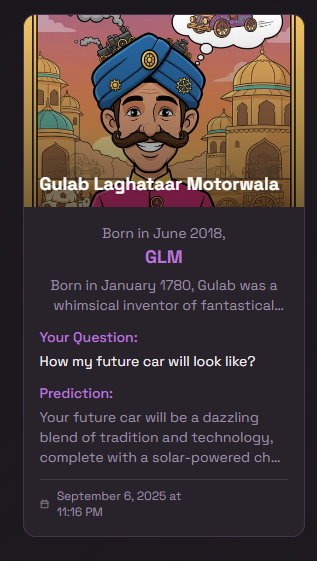
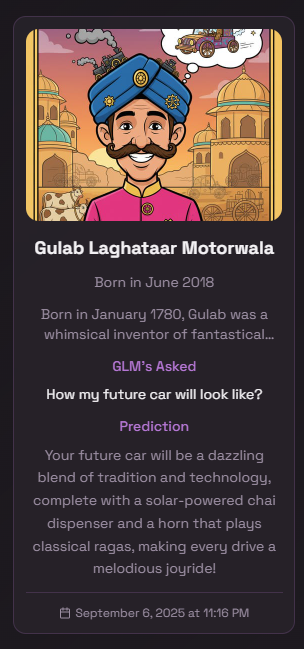
pwa capaboility with good loadinng performance.

diff --git a/src/components/prediction-result.tsx b/src/components/prediction-result.tsx
@@ -190,16 +190,16 @@ export function PredictionResult({ result, name, question }: PredictionResultPro
         <div ref={resultCardRef} className="p-4 bg-transparent">
           <Card className="overflow-hidden rounded-2xl border-2 border-primary/20 shadow-lg">
             <CardContent className="p-0">
-              <div className="bg-card p-6 text-center">
-                  <div className="flex justify-center items-center mb-4">
+              <div className="bg-card p-4 md:p-6 text-center">
+                  <div className="flex justify-center items-center mb-2 md:mb-4">
                       <Gift className="w-8 h-8 text-primary" />
                   </div>
                   <h2 className="text-2xl font-bold">A Birthday Match for {name}!</h2>
                   <p className="text-muted-foreground">You share a birthday with...</p>
               </div>
               
-              <div className="p-6 bg-muted/30">
-                  <div className="w-full aspect-square bg-muted rounded-lg mb-4 flex items-center justify-center overflow-hidden border">
+              <div className="group p-4 md:p-6 bg-muted/30 transition-all duration-300 hover:pb-8">
+                  <div className="w-full aspect-square bg-muted rounded-lg mb-2 md:mb-4 flex items-center justify-center overflow-hidden border">
                       <Image
                           src={result.characterImage}
                           alt={`Image of ${result.characterName}`}
@@ -209,21 +209,24 @@ export function PredictionResult({ result, name, question }: PredictionResultPro
                           data-ai-hint="character portrait"
                       />
                   </div>
-                  <h3 className="text-xl font-semibold text-center">{result.characterName}</h3>
-                  <p className="text-muted-foreground italic mt-2 text-center">{result.characterDescription}</p>
+                  {/* Character details - hidden on desktop normal state, visible on hover */}
+                  <div className="md:opacity-0 md:max-h-0 md:overflow-hidden md:group-hover:opacity-100 md:group-hover:max-h-32 transition-all duration-300">
+                      <h3 className="text-xl font-semibold text-center">{result.characterName}</h3>
+                      <p className="text-muted-foreground italic mt-2 text-center">{result.characterDescription}</p>
+                  </div>
               </div>
               
-              <div className="bg-card p-6 text-center">
+              <div className="bg-card p-4 md:p-6 text-center">
                   <h3 className="text-xl font-bold">Question</h3>
-                  <p className="text-foreground/90 mt-2 line-clamp-2">
+                  <p className="text-foreground/90 mt-1 md:mt-2 line-clamp-2">
                     {question}
                   </p>
-                  <div className="my-4 h-px w-20 bg-primary/20 mx-auto" />
+                  <div className="my-2 md:my-4 h-px w-20 bg-primary/20 mx-auto" />
                   <h3 className="text-2xl font-bold text-primary">Your Cosmic Prediction</h3>
-                  <p className="text-foreground/90 mt-4">
+                  <p className="text-foreground/90 mt-2 md:mt-4">
                       {result.prediction}
                   </p>
-                  <p className="text-xs text-primary mt-4 text-center">
+                  <p className="text-xs text-primary mt-2 md:mt-4 text-center">
                     cosmicQuirks.in
                   </p>
               </div>

diff --git a/public/sw.js b/public/sw.js
@@ -1,0 +1,93 @@
+const CACHE_NAME = 'cosmic-quirks-v1';
+const STATIC_ASSETS = [
+  '/',
+  '/manifest.json',
+  '/icon-192x192.png',
+  '/icon-512x512.png',
+  '/apple-touch-icon.png'
+];
+
+// Install event - cache static assets
+self.addEventListener('install', (event) => {
+  event.waitUntil(
+    caches.open(CACHE_NAME)
+      .then((cache) => cache.addAll(STATIC_ASSETS))
+      .then(() => self.skipWaiting())
+  );
+});
+
+// Activate event - clean up old caches
+self.addEventListener('activate', (event) => {
+  event.waitUntil(
+    caches.keys()
+      .then((cacheNames) => {
+        return Promise.all(
+          cacheNames.map((cacheName) => {
+            if (cacheName !== CACHE_NAME) {
+              return caches.delete(cacheName);
+            }
+          })
+        );
+      })
+      .then(() => self.clients.claim())
+  );
+});
+
+// Fetch event - serve from cache when offline
+self.addEventListener('fetch', (event) => {
+  // Only handle same-origin requests
+  if (event.request.url.startsWith(self.location.origin)) {
+    event.respondWith(
+      caches.match(event.request)
+        .then((response) => {
+          // Return cached version or fetch from network
+          if (response) {
+            return response;
+          }
+          
+          return fetch(event.request)
+            .then((response) => {
+              // Don't cache if not a valid response
+              if (!response || response.status !== 200 || response.type !== 'basic') {
+                return response;
+              }
+
+              // Cache successful responses for static assets
+              if (event.request.method === 'GET' && 
+                  (event.request.url.includes('/static/') || 
+                   event.request.url.includes('/_next/static/'))) {
+                const responseToCache = response.clone();
+                caches.open(CACHE_NAME)
+                  .then((cache) => {
+                    cache.put(event.request, responseToCache);
+                  });
+              }
+
+              return response;
+            })
+            .catch(() => {
+              // If network fails, try to serve the main page for navigation requests
+              if (event.request.mode === 'navigate') {
+                return caches.match('/');
+              }
+              throw error;
+            });
+        })
+    );
+  }
+});
+
+// Handle background sync for offline form submissions (future enhancement)
+self.addEventListener('sync', (event) => {
+  if (event.tag === 'prediction-sync') {
+    event.waitUntil(
+      // Handle offline prediction submissions
+      handleOfflinePredictions()
+    );
+  }
+});
+
+async function handleOfflinePredictions() {
+  // Future: Handle queued predictions when back online
+  console.log('Handling offline predictions...');
+}

diff --git a/src/app/page.tsx b/src/app/page.tsx
@@ -78,20 +78,41 @@ export default function Home() {
     setUserName(data.name);
     setUserQuestion(data.question);
     
-    const response = await getPrediction(data);
+    try {
+      // Add timeout to prevent infinite loading
+      const timeoutPromise = new Promise<never>((_, reject) => {
+        setTimeout(() => reject(new Error('Request timeout')), 60000); // 60 seconds timeout
+      });
+      
+      const response = await Promise.race([
+        getPrediction(data),
+        timeoutPromise
+      ]);
 
-    if (response.error) {
+      if (response.error) {
+        toast({
+          variant: 'destructive',
+          title: 'The cosmos are fuzzy right now.',
+          description: response.error,
+        });
+      } else if (response.data) {
+        setResult(response.data);
+        setShowConfetti(true);
+        setTimeout(() => setShowConfetti(false), 8000);
+      }
+    } catch (error) {
+      console.error('Prediction error:', error);
       toast({
         variant: 'destructive',
         title: 'The cosmos are fuzzy right now.',
-        description: response.error,
+        description: error instanceof Error && error.message === 'Request timeout' 
+          ? 'The cosmic forces are taking too long to respond. Please try again.'
+          : 'An unexpected cosmic disturbance occurred. Please try again.',
       });
-    } else if (response.data) {
-      setResult(response.data);
-      setShowConfetti(true);
-      setTimeout(() => setShowConfetti(false), 8000);
+    } finally {
+      // Always clear loading state
+      setIsLoading(false);
     }
-    setIsLoading(false);
   };
 
   return (

diff --git a/src/app/layout.tsx b/src/app/layout.tsx
@@ -1,11 +1,29 @@
 import type {Metadata} from 'next';
 import { Toaster } from "@/components/ui/toaster"
 import { AuthProvider } from '@/contexts/auth-context';
+import { PWAInstaller } from '@/components/pwa-installer';
 import './globals.css';
 
 export const metadata: Metadata = {
   title: 'Cosmic Quirks',
-  description: 'Find out your funny future prediction!',
+  description: 'Your future, revealed with a wink from history. Get funny predictions with AI-generated character illustrations.',
+  manifest: '/manifest.json',
+  appleWebApp: {
+    capable: true,
+    statusBarStyle: 'default',
+    title: 'Cosmic Quirks',
+  },
+  icons: {
+    icon: [
+      { url: '/icon-192x192.svg', sizes: '192x192', type: 'image/svg+xml' },
+      { url: '/icon-512x512.svg', sizes: '512x512', type: 'image/svg+xml' },
+    ],
+    apple: [
+      { url: '/apple-touch-icon.svg', sizes: '180x180', type: 'image/svg+xml' },
+    ],
+  },
+  viewport: 'width=device-width, initial-scale=1, user-scalable=no',
+  themeColor: '#7c3aed',
 };
 
 export default function RootLayout({
@@ -22,6 +40,7 @@ export default function RootLayout({
       </head>
       <body className="font-body antialiased">
         <AuthProvider>
+          <PWAInstaller />
           {children}
           <Toaster />
         </AuthProvider>

diff --git a/src/components/pwa-installer.tsx b/src/components/pwa-installer.tsx
@@ -1,0 +1,20 @@
+'use client';
+
+import { useEffect } from 'react';
+
+export function PWAInstaller() {
+  useEffect(() => {
+    if ('serviceWorker' in navigator) {
+      navigator.serviceWorker
+        .register('/sw.js')
+        .then((registration) => {
+          console.log('Service Worker registered successfully:', registration.scope);
+        })
+        .catch((error) => {
+          console.log('Service Worker registration failed:', error);
+        });
+    }
+  }, []);
+
+  return null; // This component doesn't render anything
+}
